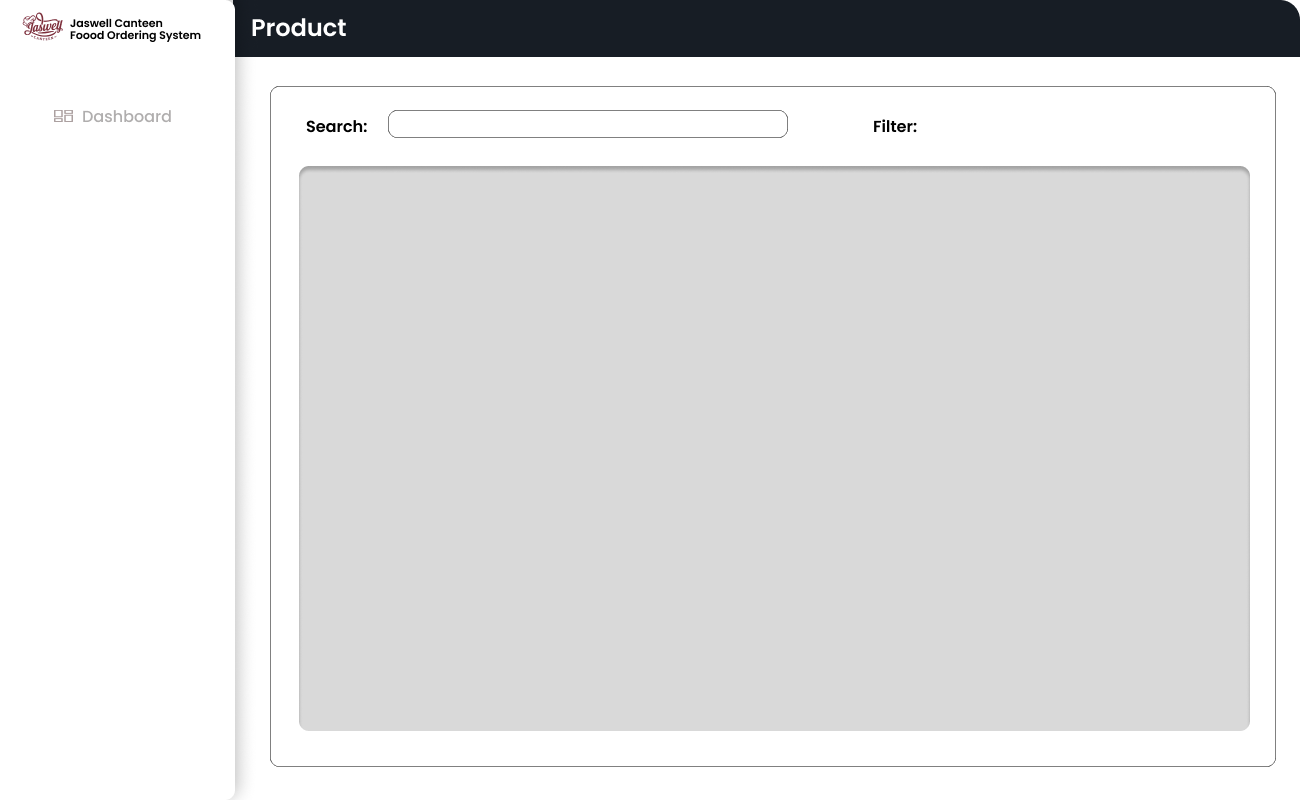
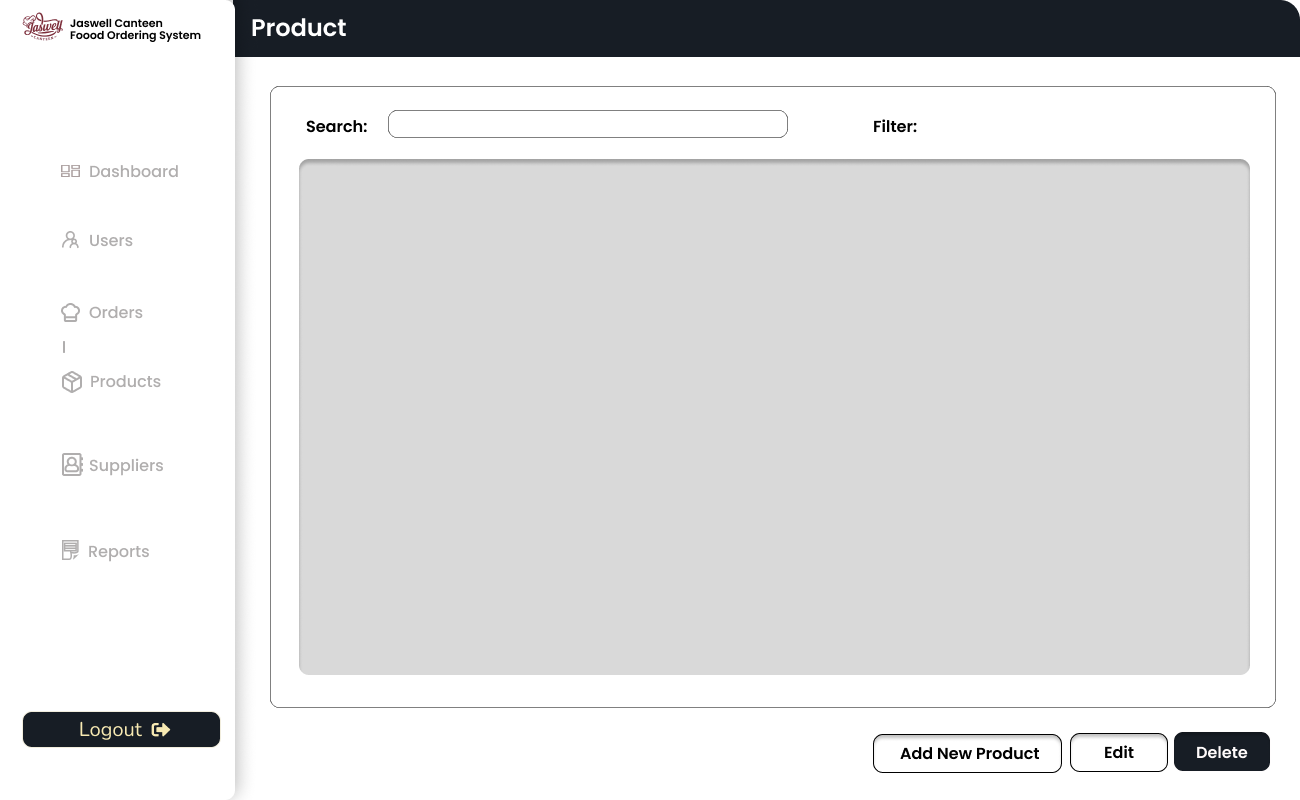
d q maayos buttons sa adminimnids2

diff --git a/ADSFinalProject/src/adsfinalproject/AdminDashboard.java b/ADSFinalProject/src/adsfinalproject/AdminDashboard.java
@@ -22,7 +22,8 @@ public class AdminDashboard extends javax.swing.JFrame {
      */
     public AdminDashboard() {
         initComponents();
-        setSize(1300, 800);
+        setSize(1318, 847);
+        jPanel1.setVisible(true);
         setLocationRelativeTo(null);
         
         
@@ -116,6 +117,7 @@ public class AdminDashboard extends javax.swing.JFrame {
         getContentPane().setLayout(new org.netbeans.lib.awtextra.AbsoluteLayout());
 
         jPanel1.setBackground(new java.awt.Color(255, 255, 255));
+        jPanel1.setOpaque(false);
         jPanel1.setPreferredSize(new java.awt.Dimension(285, 800));
         jPanel1.setLayout(new org.netbeans.lib.awtextra.AbsoluteLayout());
 
@@ -123,7 +125,7 @@ public class AdminDashboard extends javax.swing.JFrame {
         btnLogout.setBorder(null);
         btnLogout.setBorderPainted(false);
         btnLogout.setContentAreaFilled(false);
-        jPanel1.add(btnLogout, new org.netbeans.lib.awtextra.AbsoluteConstraints(-20, 700, 280, 50));
+        jPanel1.add(btnLogout, new org.netbeans.lib.awtextra.AbsoluteConstraints(-30, 700, 300, 50));
 
         btnReports.setIcon(new javax.swing.ImageIcon(getClass().getResource("/design/reports.png"))); // NOI18N
         btnReports.setBorder(null);
@@ -192,9 +194,9 @@ public class AdminDashboard extends javax.swing.JFrame {
         jPanel1.add(btnDashboard, new org.netbeans.lib.awtextra.AbsoluteConstraints(50, 140, 300, 70));
 
         jLabel8.setIcon(new javax.swing.ImageIcon(getClass().getResource("/design/admindasd.png"))); // NOI18N
-        jPanel1.add(jLabel8, new org.netbeans.lib.awtextra.AbsoluteConstraints(0, 0, 230, -1));
+        jPanel1.add(jLabel8, new org.netbeans.lib.awtextra.AbsoluteConstraints(0, 0, 240, -1));
 
-        getContentPane().add(jPanel1, new org.netbeans.lib.awtextra.AbsoluteConstraints(0, 0, 210, 847));
+        getContentPane().add(jPanel1, new org.netbeans.lib.awtextra.AbsoluteConstraints(0, -3, 230, 850));
 
         jPanel2.setBackground(new java.awt.Color(255, 255, 255));
         jPanel2.setLayout(new java.awt.CardLayout());
@@ -202,7 +204,7 @@ public class AdminDashboard extends javax.swing.JFrame {
         pnlReports.setBackground(new java.awt.Color(255, 255, 255));
         pnlReports.setPreferredSize(new java.awt.Dimension(1300, 800));
 
-        jLabel7.setIcon(new javax.swing.ImageIcon(getClass().getResource("/design/Reportsda.png"))); // NOI18N
+        jLabel7.setIcon(new javax.swing.ImageIcon(getClass().getResource("/design/reports.png"))); // NOI18N
 
         javax.swing.GroupLayout pnlReportsLayout = new javax.swing.GroupLayout(pnlReports);
         pnlReports.setLayout(pnlReportsLayout);
@@ -244,7 +246,7 @@ public class AdminDashboard extends javax.swing.JFrame {
         jTabbedPane1.setTabPlacement(javax.swing.JTabbedPane.RIGHT);
         jTabbedPane1.setToolTipText("");
 
-        jLabel4.setIcon(new javax.swing.ImageIcon(getClass().getResource("/design/Ordersda.png"))); // NOI18N
+        jLabel4.setIcon(new javax.swing.ImageIcon(getClass().getResource("/design/orders.png"))); // NOI18N
         jTabbedPane1.addTab("Order", jLabel4);
 
         jLabel5.setIcon(new javax.swing.ImageIcon(getClass().getResource("/design/Payment.png"))); // NOI18N
@@ -257,7 +259,7 @@ public class AdminDashboard extends javax.swing.JFrame {
 
         pnlUsers.setBackground(new java.awt.Color(255, 255, 255));
 
-        jLabel2.setIcon(new javax.swing.ImageIcon(getClass().getResource("/design/Usersda.png"))); // NOI18N
+        jLabel2.setIcon(new javax.swing.ImageIcon(getClass().getResource("/design/users.png"))); // NOI18N
 
         javax.swing.GroupLayout pnlUsersLayout = new javax.swing.GroupLayout(pnlUsers);
         pnlUsers.setLayout(pnlUsersLayout);
@@ -276,7 +278,7 @@ public class AdminDashboard extends javax.swing.JFrame {
 
         pnlDashboard.setBackground(new java.awt.Color(255, 255, 255));
 
-        jLabel1.setIcon(new javax.swing.ImageIcon(getClass().getResource("/design/Admindash.png"))); // NOI18N
+        jLabel1.setIcon(new javax.swing.ImageIcon(getClass().getResource("/design/admin.png"))); // NOI18N
 
         javax.swing.GroupLayout pnlDashboardLayout = new javax.swing.GroupLayout(pnlDashboard);
         pnlDashboard.setLayout(pnlDashboardLayout);
@@ -295,7 +297,7 @@ public class AdminDashboard extends javax.swing.JFrame {
 
         pnlProduct.setBackground(new java.awt.Color(255, 255, 255));
 
-        jLabel3.setIcon(new javax.swing.ImageIcon(getClass().getResource("/design/Productda.png"))); // NOI18N
+        jLabel3.setIcon(new javax.swing.ImageIcon(getClass().getResource("/design/Product.png"))); // NOI18N
 
         javax.swing.GroupLayout pnlProductLayout = new javax.swing.GroupLayout(pnlProduct);
         pnlProduct.setLayout(pnlProductLayout);

diff --git a/ADSFinalProject/src/adsfinalproject/startUp.java b/ADSFinalProject/src/adsfinalproject/startUp.java
@@ -79,10 +79,15 @@ public class startUp extends javax.swing.JFrame {
         pnlLog = new javax.swing.JPanel();
         btnBackLog = new javax.swing.JButton();
         btnNext = new javax.swing.JButton();
+        lblLogEmail = new javax.swing.JTextField();
+        lblLogPass = new javax.swing.JTextField();
         jLabel2 = new javax.swing.JLabel();
         pnlReg = new javax.swing.JPanel();
         btnRegConfirm = new javax.swing.JButton();
         btnBackReg = new javax.swing.JButton();
+        lblRegPass = new javax.swing.JTextField();
+        lblRegEmail = new javax.swing.JTextField();
+        lblRegFName = new javax.swing.JTextField();
         jLabel3 = new javax.swing.JLabel();
         log1 = new javax.swing.JPanel();
         btnRegister = new javax.swing.JButton();
@@ -97,7 +102,6 @@ public class startUp extends javax.swing.JFrame {
         jLabel4 = new javax.swing.JLabel();
 
         setDefaultCloseOperation(javax.swing.WindowConstants.EXIT_ON_CLOSE);
-        setPreferredSize(new java.awt.Dimension(1300, 800));
 
         jPanel1.setPreferredSize(new java.awt.Dimension(1300, 800));
         jPanel1.setLayout(new org.netbeans.lib.awtextra.AbsoluteLayout());
@@ -126,6 +130,16 @@ public class startUp extends javax.swing.JFrame {
             }
         });
         pnlLog.add(btnNext, new org.netbeans.lib.awtextra.AbsoluteConstraints(545, 513, 220, 70));
+
+        lblLogEmail.setBackground(new java.awt.Color(255, 255, 255));
+        lblLogEmail.setForeground(new java.awt.Color(0, 0, 0));
+        lblLogEmail.setBorder(null);
+        pnlLog.add(lblLogEmail, new org.netbeans.lib.awtextra.AbsoluteConstraints(480, 330, 410, 40));
+
+        lblLogPass.setBackground(new java.awt.Color(255, 255, 255));
+        lblLogPass.setForeground(new java.awt.Color(0, 0, 0));
+        lblLogPass.setBorder(null);
+        pnlLog.add(lblLogPass, new org.netbeans.lib.awtextra.AbsoluteConstraints(480, 400, 410, 40));
 
         jLabel2.setIcon(new javax.swing.ImageIcon(getClass().getResource("/design/Login 2.png"))); // NOI18N
         jLabel2.setToolTipText("");
@@ -158,6 +172,21 @@ public class startUp extends javax.swing.JFrame {
             }
         });
         pnlReg.add(btnBackReg, new org.netbeans.lib.awtextra.AbsoluteConstraints(610, 660, 80, 60));
+
+        lblRegPass.setBackground(new java.awt.Color(255, 255, 255));
+        lblRegPass.setForeground(new java.awt.Color(0, 0, 0));
+        lblRegPass.setBorder(null);
+        pnlReg.add(lblRegPass, new org.netbeans.lib.awtextra.AbsoluteConstraints(480, 440, 410, 40));
+
+        lblRegEmail.setBackground(new java.awt.Color(255, 255, 255));
+        lblRegEmail.setForeground(new java.awt.Color(0, 0, 0));
+        lblRegEmail.setBorder(null);
+        pnlReg.add(lblRegEmail, new org.netbeans.lib.awtextra.AbsoluteConstraints(480, 380, 410, 30));
+
+        lblRegFName.setBackground(new java.awt.Color(255, 255, 255));
+        lblRegFName.setForeground(new java.awt.Color(0, 0, 0));
+        lblRegFName.setBorder(null);
+        pnlReg.add(lblRegFName, new org.netbeans.lib.awtextra.AbsoluteConstraints(480, 312, 410, 40));
 
         jLabel3.setIcon(new javax.swing.ImageIcon(getClass().getResource("/design/Register.png"))); // NOI18N
         pnlReg.add(jLabel3, new org.netbeans.lib.awtextra.AbsoluteConstraints(0, 0, -1, -1));
@@ -371,6 +400,11 @@ public class startUp extends javax.swing.JFrame {
     private javax.swing.JLabel jLabel3;
     private javax.swing.JLabel jLabel4;
     private javax.swing.JPanel jPanel1;
+    private javax.swing.JTextField lblLogEmail;
+    private javax.swing.JTextField lblLogPass;
+    private javax.swing.JTextField lblRegEmail;
+    private javax.swing.JTextField lblRegFName;
+    private javax.swing.JTextField lblRegPass;
     private javax.swing.JPanel log1;
     private javax.swing.JPanel pnlLog;
     private javax.swing.JPanel pnlReg;

diff --git a/ADSFinalProject/src/adsfinalproject/CustomerDashboard.java b/ADSFinalProject/src/adsfinalproject/CustomerDashboard.java
@@ -28,7 +28,7 @@ public class CustomerDashboard extends javax.swing.JFrame {
      */
     public CustomerDashboard() {
         initComponents();
-        setSize(1300, 800);
+        setSize(1318, 847);
         setLocationRelativeTo(null);        
         menuRice.setBorder(null);
         btnCart.setIcon(darkIcon);
